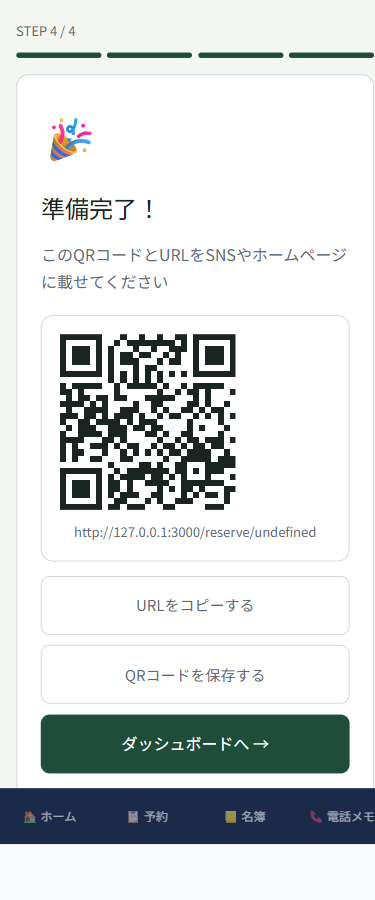
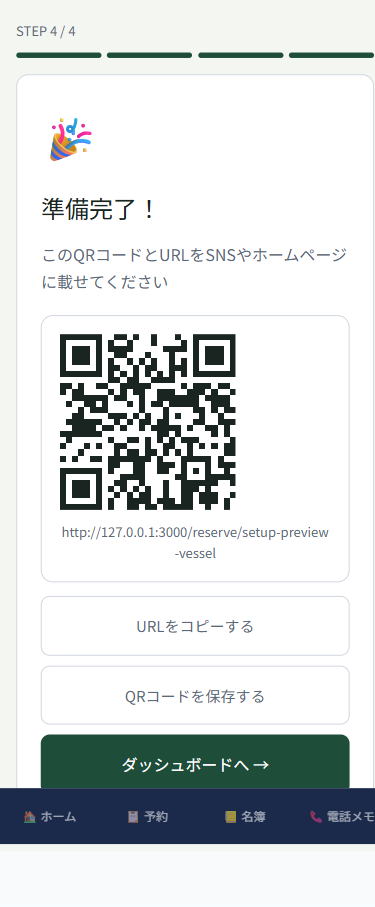
test: セットアップ画面モックデータを修正

diff --git a/tests/setup-check.spec.ts b/tests/setup-check.spec.ts
@@ -57,8 +57,7 @@ test('セットアップ画面確認', async ({ page }) => {
       await route.fulfill({
         status: 200,
         contentType: 'application/json',
-        headers: { 'content-range': '0-0/1' },
-        body: JSON.stringify([{ id: 'setup-preview-vessel', name: 'テスト丸' }]),
+        body: JSON.stringify({ id: 'setup-preview-vessel', name: 'テスト丸' }),
       })
     })
   }
